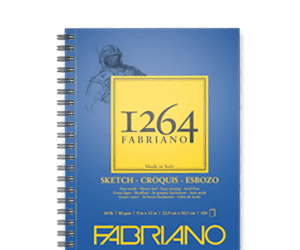
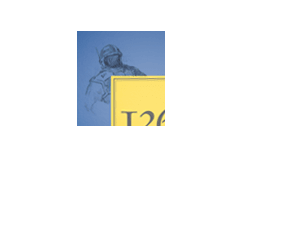
better fade in, make more images

diff --git a/src/300x250.js b/src/300x250.js
@@ -41,26 +41,18 @@ ad.appendChild(sketchbook)
 
 const tl = gsap.timeline()
 
-const inDur = 0.35
-const outDur = 0.55
+const inDur = 0.5
 const ease = 'none'
 
+// draw in the sketchbook
 tl.from(sketchbook, { duration: 1, y: 250 })
 tl.to(sketchbookFrames[1], { duration: inDur, alpha: 1, ease })
-tl.to(sketchbookFrames[0], { duration: outDur, alpha: 0, ease })
+tl.to(sketchbookFrames[2], { duration: inDur, alpha: 1, ease })
+tl.to(sketchbookFrames[3], { duration: inDur, alpha: 1, ease })
+tl.to(sketchbookFrames[4], { duration: inDur, alpha: 1, ease })
+tl.to(sketchbookFrames[5], { duration: inDur, alpha: 1, ease })
 
-tl.to(sketchbookFrames[2], { duration: inDur, alpha: 1, ease }, '<')
-tl.to(sketchbookFrames[1], { duration: outDur, alpha: 0, ease })
-
-tl.to(sketchbookFrames[3], { duration: inDur, alpha: 1, ease }, '<')
-tl.to(sketchbookFrames[2], { duration: outDur, alpha: 0, ease })
-
-tl.to(sketchbookFrames[4], { duration: inDur, alpha: 1, ease }, '<')
-tl.to(sketchbookFrames[3], { duration: outDur, alpha: 0, ease })
-
-tl.to(sketchbookFrames[5], { duration: inDur, alpha: 1, ease }, '<')
-tl.to(sketchbookFrames[4], { duration: outDur, alpha: 0, ease })
-
+// drop the sketchbook out of the frame
 tl.set(sketchbook, { y: 22 }, '>.5')
 tl.set(sketchbook, { y: 72 }, '>.5')
 tl.set(sketchbook, { y: 122 }, '>.5')

diff --git a/size300-250.config.js b/size300-250.config.js
@@ -7,7 +7,7 @@ const adSize = {
 }
 
 module.exports = {
-  // mode: 'development',
+  mode: 'development',
   entry: './src/300x250.js',
   plugins: [
     new HtmlWebpackPlugin({
@@ -25,7 +25,6 @@ module.exports = {
     path: path.resolve(__dirname, `dist/${adSize.width}x${adSize.height}`),
     clean: true,
     publicPath: '',
-    // assetModuleFilename: 'images/[hash][ext][query]',
   },
   module: {
     rules: [
